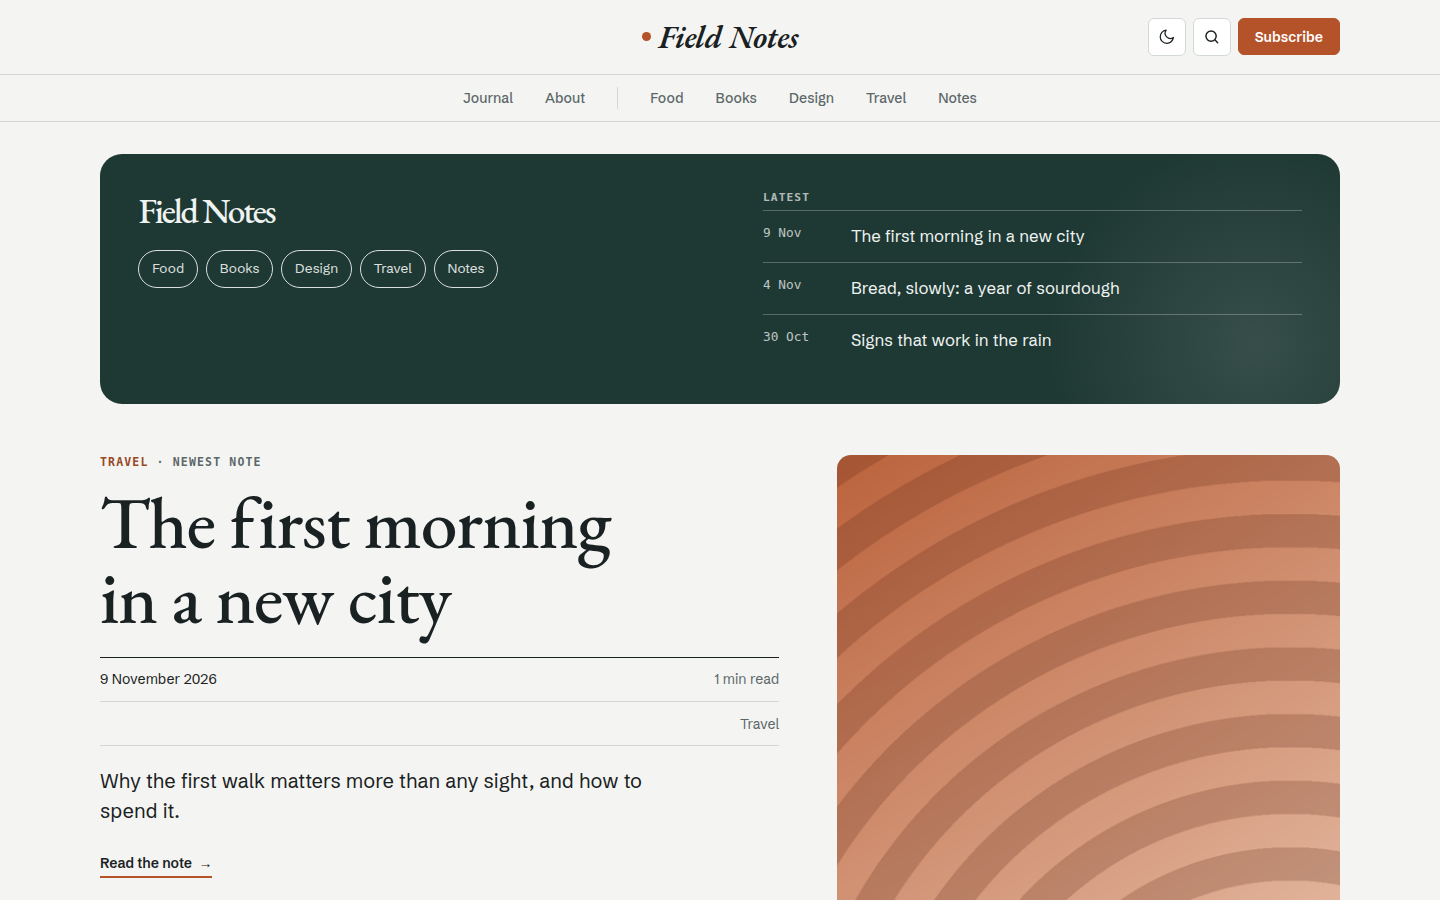
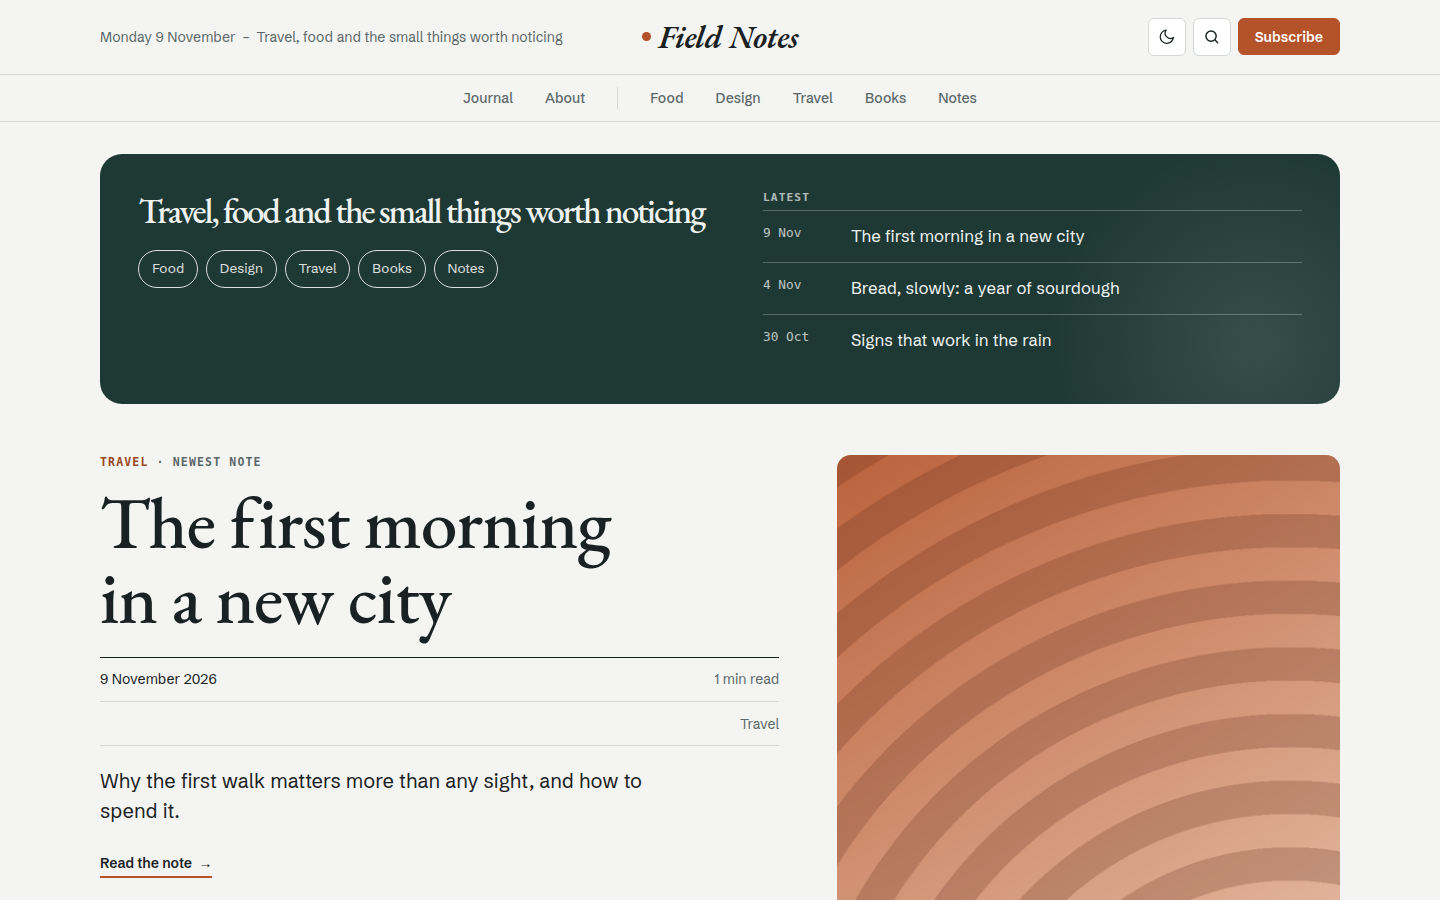
feat(kazahana): 1.0.0 with readme, changelog and registry screenshot

diff --git a/themes/kazahana/README.md b/themes/kazahana/README.md
@@ -19,16 +19,35 @@ hatamoto theme activate kazahana
 Layouts and sections the theme does not ship come from the built-in theme, so every
 page keeps rendering.
 
+## What it ships
+
+- Home, single post, plain page, archive, topic and tag, author, search and 404 layouts.
+- A centred italic masthead with a red dot, a hairline row with your menu and topics, and a dateline (date of the latest note and your tagline). On small screens the menu is a pine panel that works without JavaScript.
+- A pine intro block with your tagline, topic chips and the three latest notes, then the newest note, a grid of recent notes, a quote band with a subscribe link, and the archive as a two-column list.
+- Single posts with a wide image, a sticky "On this page" list built from the h2 headings (shown when there are two or more), a red drop cap, an author row and an older/newer pair.
+- Lists with dated rows, thumbnails, topic filters and a Newer/Older pager.
+- Light and dark. No JavaScript is needed for anything except the colour toggle.
+
 ## Settings
 
-**Theme > Themes > Kazahana > Settings**:
+**Theme > Themes > Kazahana > Settings**. Every setting has a default.
 
-| Setting | Default | What it does |
-| --- | --- | --- |
-| Colour mode | `light` | what a first visit shows: `light`, `dark` or `auto` (follows the system); visitors can still switch |
-| Spacing | `comfortable` | `compact` tightens the space between sections |
+| Setting | Type | Default | What it does |
+| --- | --- | --- | --- |
+| Intro block (`show_intro`) | on/off | on | The pine block with the tagline, topics and latest notes on the home page. Off keeps a hidden site-name heading. |
+| Drop cap (`drop_cap`) | on/off | on | A large red first letter on posts. |
+| Topics in the header (`header_topics`) | on/off | on | Your categories in the header row, and as a strip on small screens. |
+| Dateline (`header_dateline`) | on/off | on | The date of the latest note and the site tagline, left of the site name on wide screens. |
+| Colour mode (`color_mode`) | `light`, `dark`, `auto` | `auto` | What a first visit shows; `auto` follows the system. Visitors can still switch with the header toggle. |
+| Spacing (`density`) | `comfortable`, `compact` | `comfortable` | `compact` tightens the space between sections. |
 
 Colours, fonts and corners follow **Theme > Colours and fonts**.
+
+## Subscribe
+
+The red header button, the home quote band and the footer all lead to the same place: the
+site's own header button (Site settings) when it is set, otherwise the feed at `/feed.xml`.
+The theme prints no sign-up form.
 
 ## Develop
 
@@ -36,7 +55,7 @@ From the root of the `hatamoto-themes` repository:
 
 ```sh
 scripts/dev-site.sh blog themes/kazahana --serve   # a seeded local site with this theme, live reload
-scripts/check.sh themes/kazahana                            # the full check: package, render, browser, screenshot
+scripts/check.sh themes/kazahana --screenshot               # the full check, and rewrites the registry screenshot
 ```
 
 `dev/` is not part of the package.

diff --git a/themes/kazahana/CHANGELOG.md b/themes/kazahana/CHANGELOG.md
@@ -1,5 +1,10 @@
 # Changelog
 
-## 0.1.0
+## 1.0.0
 
-- First version.
+- First release: masthead header with a topic row and a mobile menu that works without JavaScript.
+- Home with a pine intro block, newest note, recent notes grid, quote band and archive list.
+- Single post with a table of contents, drop cap, author row and older/newer pair.
+- Archive, topic, author and search lists with thumbnails and a Newer/Older pager; a 404 page.
+- Pine footer with the site and topic menus and a subscribe link.
+- Light and dark, following the system by default; settings for the intro, drop cap, header topics and dateline.
